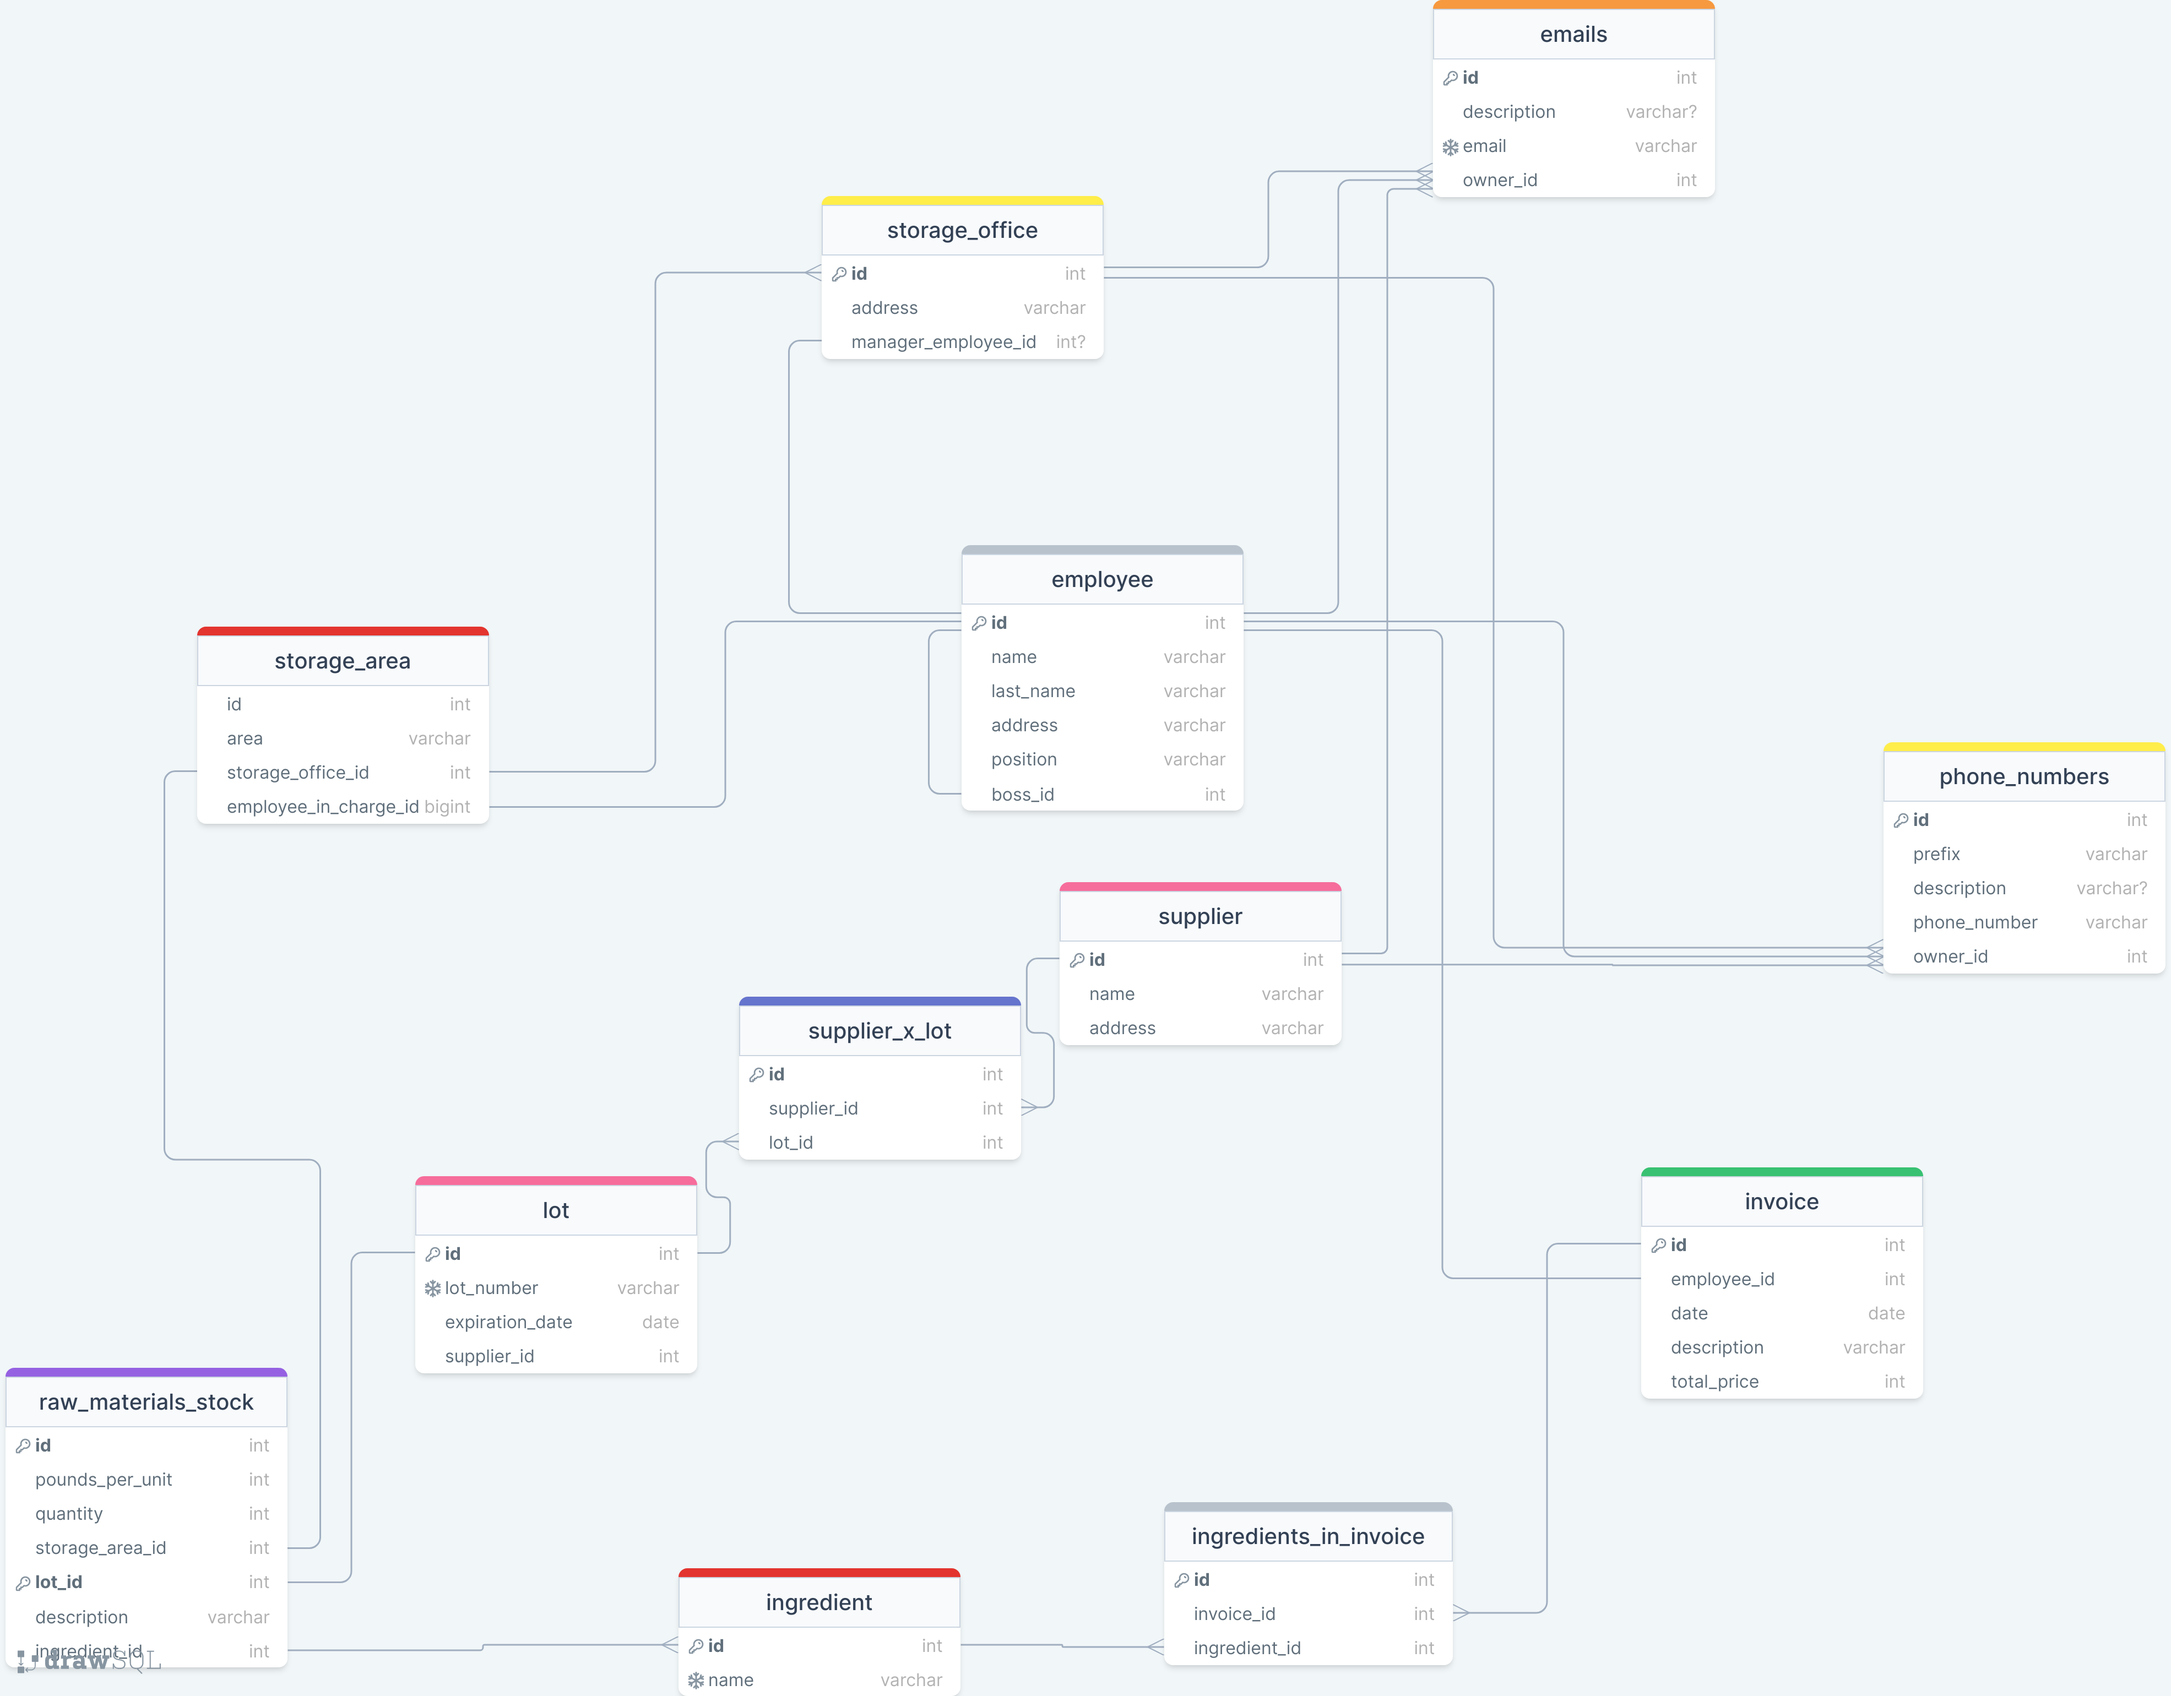
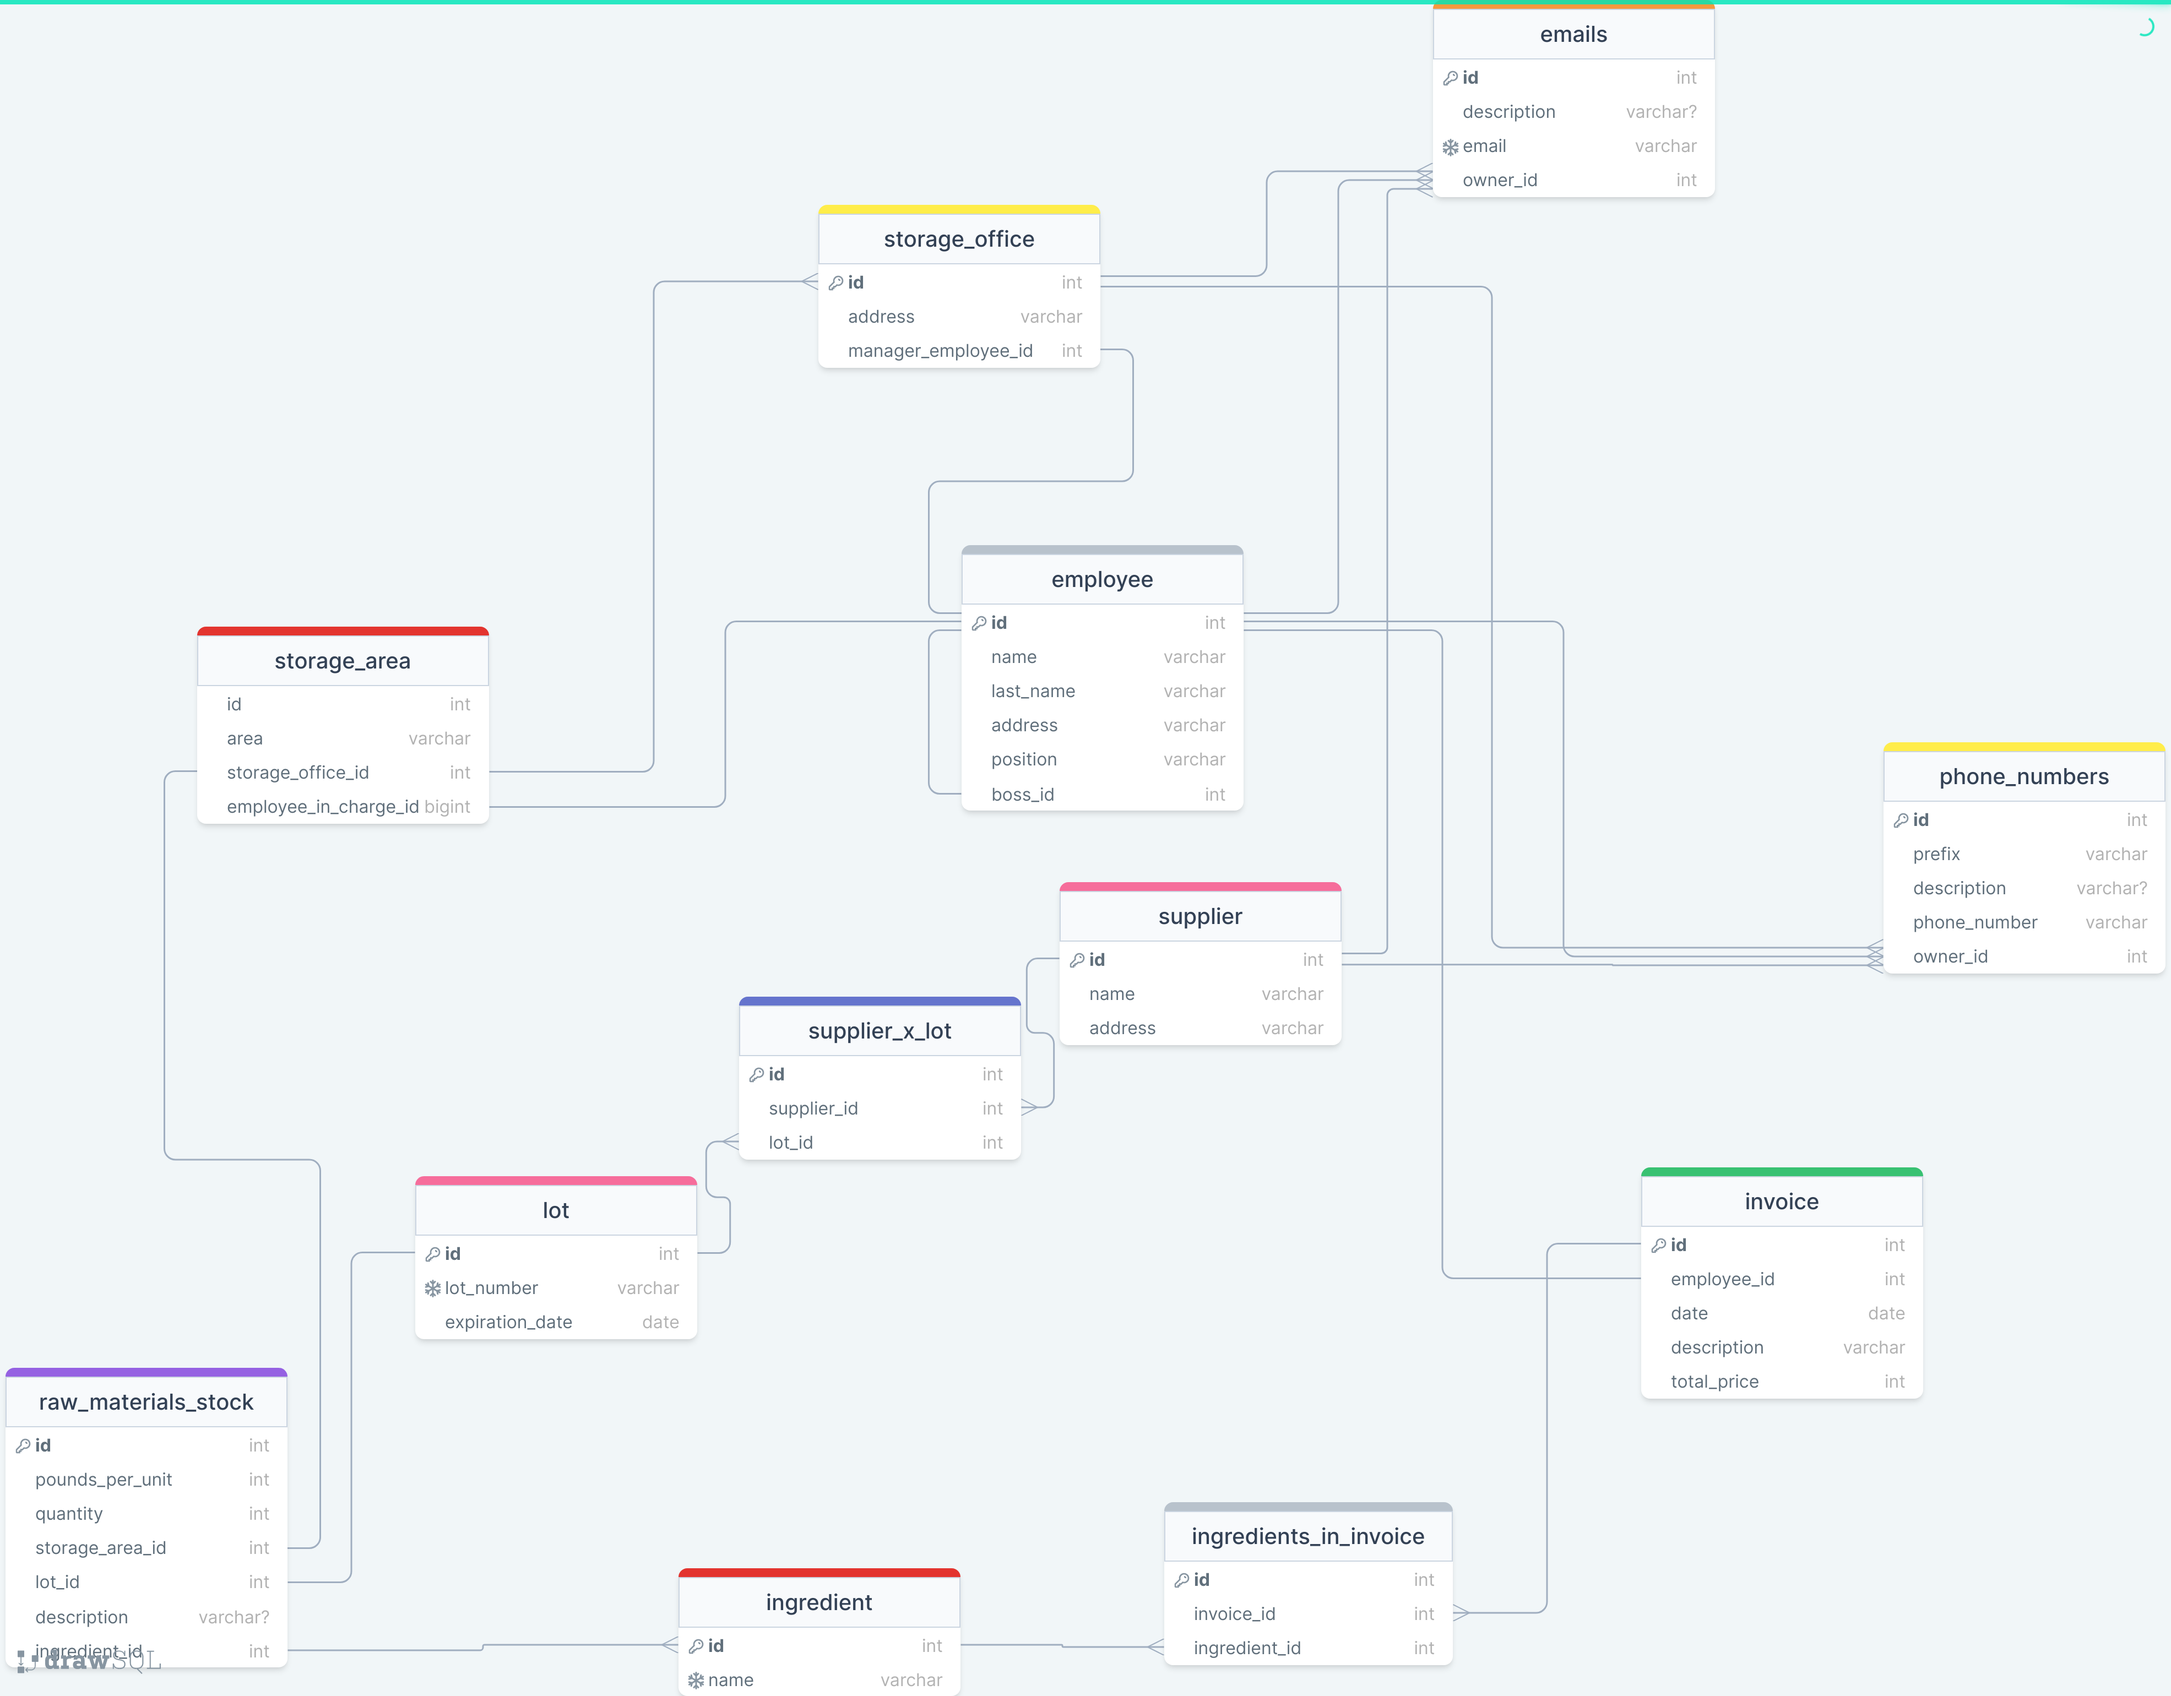
docs: :memo: README
I edited and correct de documents.

Changed region(s): [[0.3744, 0.0935, 0.5928, 0.2182], [0.1872, 0.7792, 0.312, 0.8104], [0.9673, 0.0, 1.0, 0.0312]]

diff --git a/README.md b/README.md
@@ -46,11 +46,11 @@ The internal abstraction level provides a detailed and technical view of the int
    - Attributes: id (PK), name.
 
 5. **lot:**
-   - Attributes: id (PK), lot_number, expiration_date, supplier_id (FK).
+   - Attributes: id (PK), lot_number, expiration_date.
    - Relationships: Supplied by (FK - supplier).
 
 6. **invoice:**
-   - Attributes: id (PK), employee_id (FK), date, description, total_price.
+   - Attributes: id (PK), employee_id (FK), date, description, total_price, quantity, supplier_id (FK).
    - Relationships: Generates (FK - employee), Includes Ingredients (FK - ingredients_in_invoice).
 
 7. **supplier:**
@@ -109,7 +109,7 @@ The conceptual abstraction level provides a more general and understandable view
    - Relationships: Supplied by (with Supplier).
 
 6. **Invoice:**
-   - Attributes: ID, Employee ID, Date, Description, Total Price.
+   - Attributes: ID, Employee ID, Date, Description, Total Price, Quantity, Supplier ID.
    - Relationships: Generates (with Employee), Includes Ingredients (with Ingredients).
 
 7. **Supplier:**
@@ -129,6 +129,8 @@ The conceptual abstraction level provides a more general and understandable view
 - **Composed of (Raw_materials_stock - Ingredient):** Relationship between raw materials inventory and ingredients.
 - **Supplied by (Lot - Supplier):** Relationship between lots and suppliers.
 - **Generates (Invoice - Employee):** Relationship between invoices and employees.
+- **Bought to (Invoice - Supplier):** Relationship
+between invoices and suppliers.
 - **Includes Ingredients (Invoice - Ingredients):** Relationship between invoices and ingredients.
 - **Supplies (Supplier_x_lot - Supplier and Lot):** Relationship between suppliers and lots.
 - **Located in (Storage_area - Storage Office):** Relationship between storage areas and offices.
